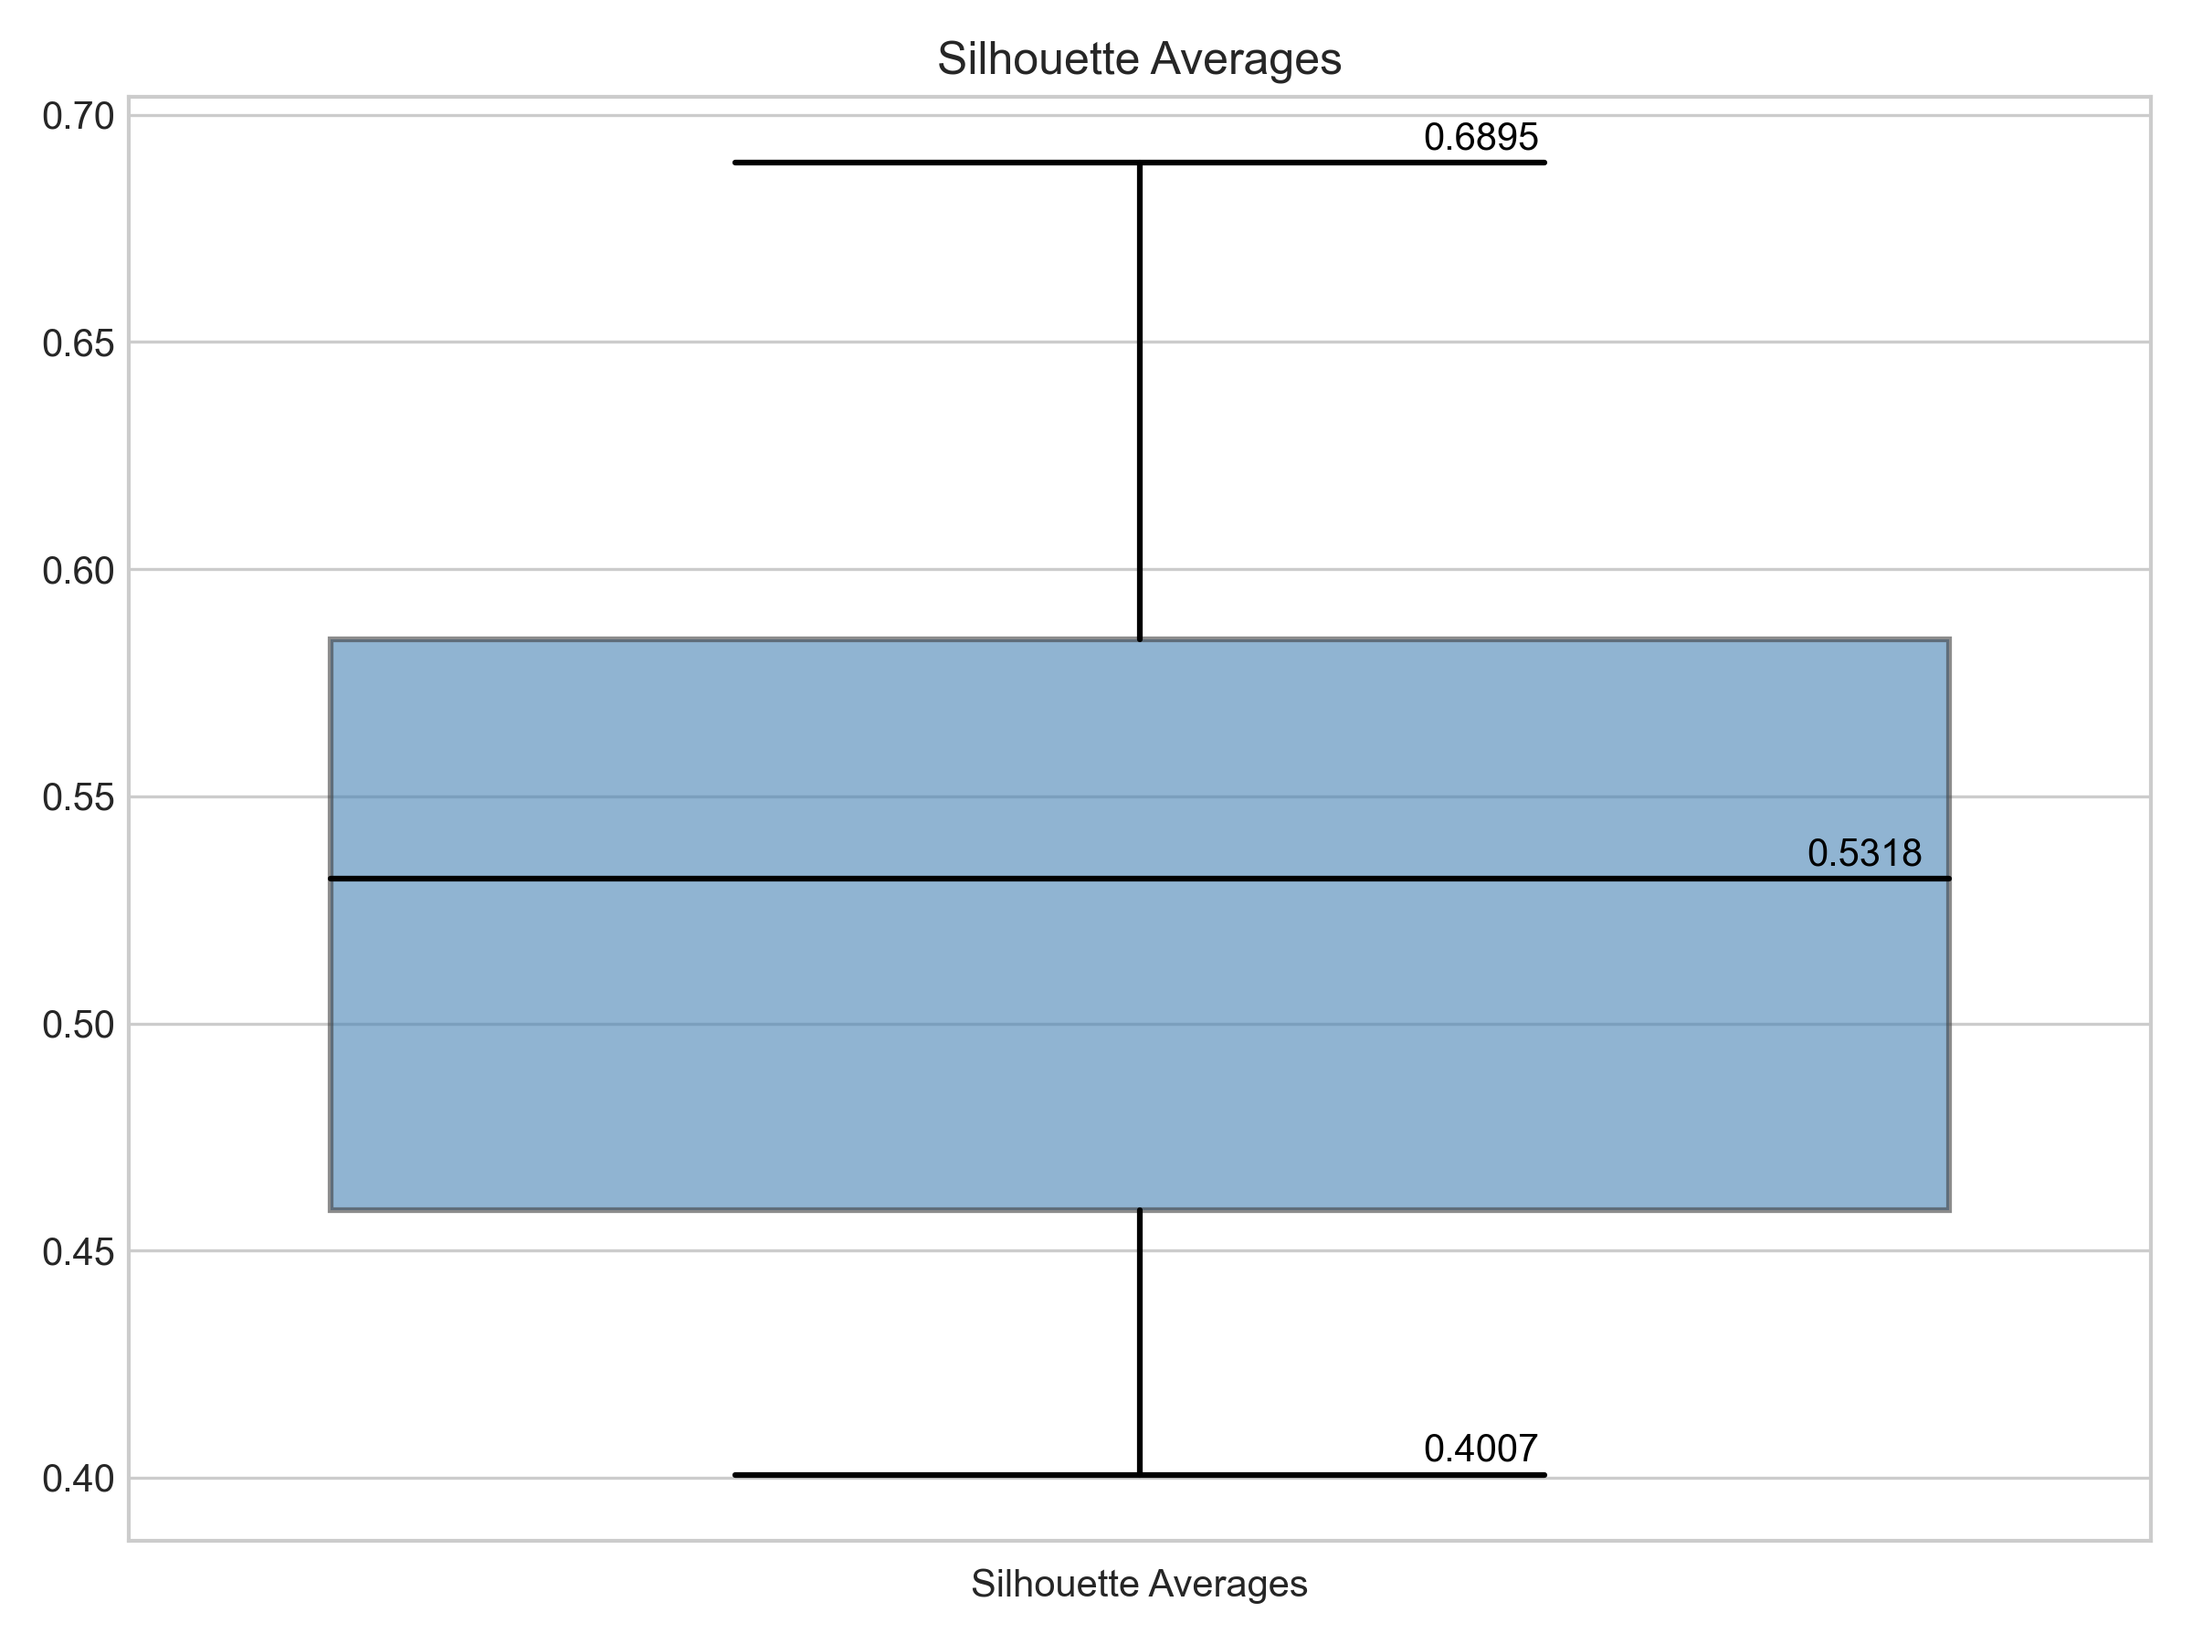
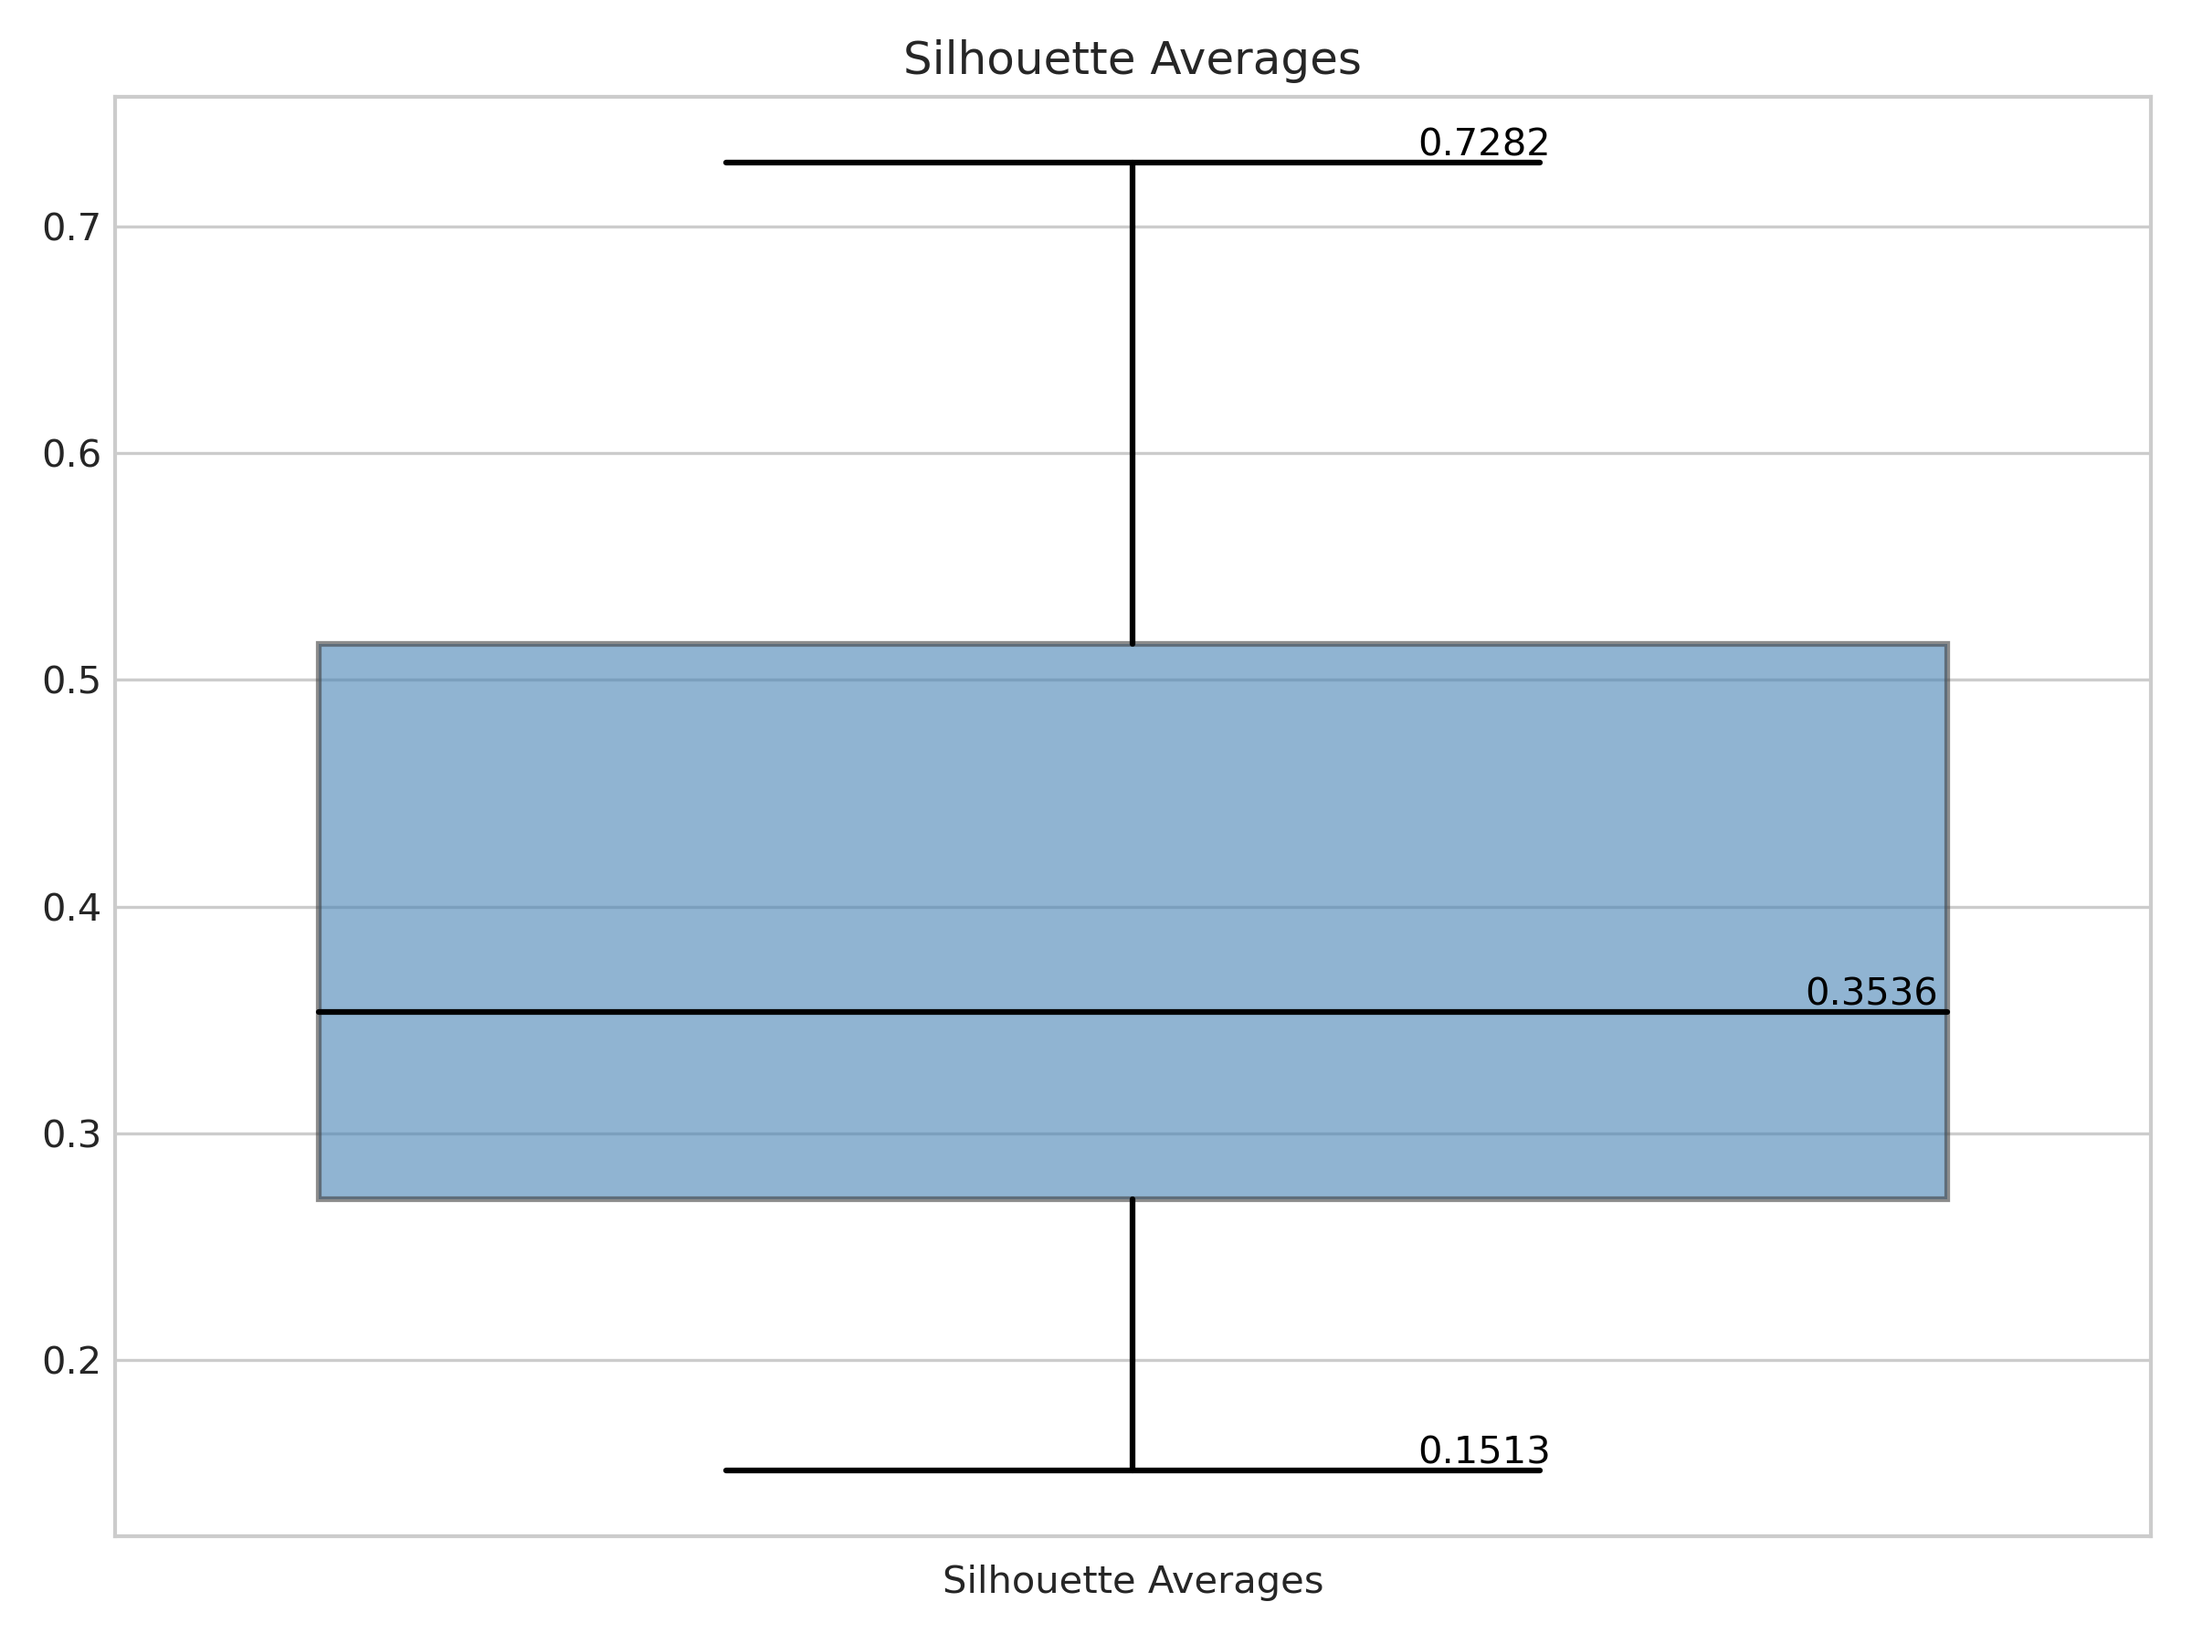
saving!

diff --git a/analysis/_main.py b/analysis/_main.py
@@ -16,7 +16,7 @@ def analysis(
             configs[os.path.dirname(file_path)] = OmegaConf.create(data)
 
     # === Hierarchical clustering ===
-    dataset_names = ['Leifer2023']#[ds_name for ds_name in configs[config.analysis.dir]['dataset']['name'].split('_')]
+    dataset_names = [ds_name for ds_name in configs[config.analysis.dir]['dataset']['name'].split('_')]
     (all_worm_clusters, ref_dict,
     silhouettes) = hc_analyse_dataset(dataset_names, apply_suggestion=True, hip='hip1', group_by=config.hierarchical_clustering.group_by,
                                       method=config.hierarchical_clustering.method, metric=config.hierarchical_clustering.metric)

diff --git a/analysis/_utils.py b/analysis/_utils.py
@@ -484,8 +484,8 @@ def hc_analyse_dataset(dataset_names, apply_suggestion=False, hip='hip1', group_
         groups = 3
         num_clusters = 3
     elif group_by == 'None':
-        groups = 6
-        num_clusters = 6
+        groups = 7
+        num_clusters = 7
         group_by = None # convert 'None' to None (yaml file)
 
     ref_dict = load_reference(group_by=group_by) # Create same ref dict for all worms
